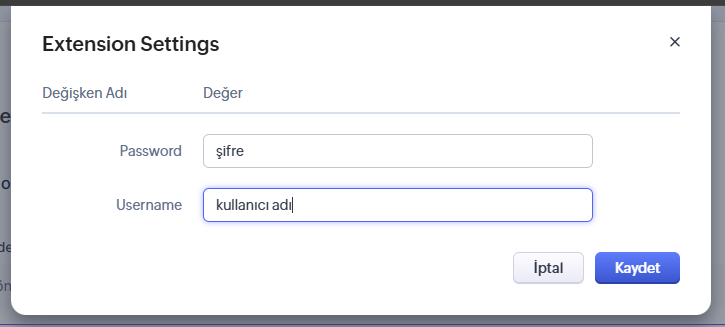
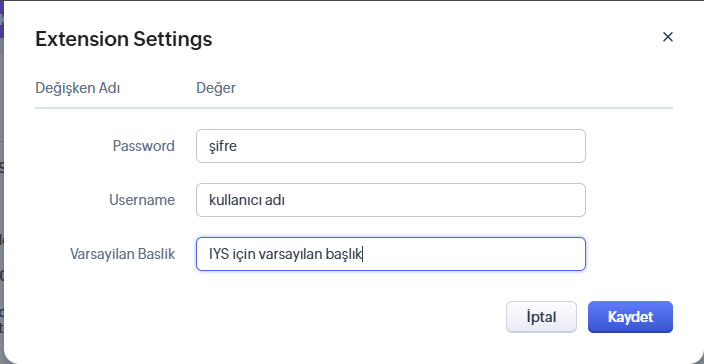
Zoho crm 13. versiyon eklendi.

diff --git a/integrations/zoho-crm-sms/README.md b/integrations/zoho-crm-sms/README.md
@@ -1,46 +1,56 @@
 # ZOHO CRM – Verimor SMS Entegrasyonu
 
-Bu eklenti ile Zoho CRM üzerinde bulunan kişi ve potansiyel müşterilere Verimor üzerinden tekil veya toplu SMS gönderebilirsiniz. Eklenti Zoho Marketplace'e özel plugin olarak yüklenir.
+Bu eklenti ile Zoho CRM üzerinde bulunan kişi ve potansiyel müşterilere Verimor üzerinden tekil veya toplu SMS gönderebilir bu kişi veya firmaları IYS sisteminize gönderebilirsiniz.. Eklenti Zoho Marketplace'e özel plugin olarak yüklenir.
 
-Modül adresi: ([Verimor SMS For ZOHO CRM](https://crm.zoho.com/market/installPrivatePlugin.do?portalName=verimortelekom&nameSpace=verimorsms&versionIndex=4576373000000167039))
+Modül adresi: ([Verimor SMS For ZOHO CRM](https://crm.zoho.com/market/installPrivatePlugin.do?portalName=verimortelekom&nameSpace=verimorsms&versionIndex=4576373000000179001))
 
 ## ZOHO CRM Nedir?
 
 Zoho CRM, işletmelerin satış, pazarlama ve müşteri destek süreçlerini tek bir platformda yönetmesini sağlayan bulut tabanlı bir CRM uygulamasıdır.
 
 ## Özellikler
-- Tekil veya toplu SMS gönderimi: Zoho'daki kişiler ve potansiyel müşterilere (leads/contacts) SMS gönderebilirsiniz.
+- Tekil veya toplu SMS gönderimi: Zoho'daki kişiler ve potansiyel müşterilere (leads/contacts/account) SMS gönderebilirsiniz.
 - Manuel numara ekleyerek gönderim sağlayabilirsiniz.
+- OIM üzerinden eklediğiniz hazır mesajları seçip gönderebilirsiniz.
 - SMS bakiyenizi görüntüleyebilirsiniz.
 - IYS modülüne sahipseniz ticari gönderim sağlayabilirsiniz.
+- Alıcıları topluca IYS ye yükleyebilirsiniz.
+- Alıcı detay sayfalarında (contact/account) IYS izinlerini sorguluyabilir ve değiştirebilirsiniz.
+- Uzantı durumunu kontrol edebilirsiniz.
 
 ## Kurulum
 1. OIM içerisinde ([SMS Ayarlarım](https://oim.verimor.com.tr/sms_settings/edit)) ekranında
-  - Api erişimini açın.
-  - Api izinli IP ler alanına 135.84.80.0/24 adresini ekleyin.
-  - Buradaki Kullanıcı ad ve API şifresini kopyalayın.
+   - Api erişimini açın.
+   - Api izinli IP ler alanına 135.84.80.0/24 adresini ekleyin.
+   - Buradaki Kullanıcı ad ve API şifresini kopyalayın.
 2. Verilen modül linkini açın ve Zoho Marketplace üzerinden eklentiyi yükleyin:
-   ([Verimor SMS For ZOHO CRM](https://crm.zoho.com/market/installPrivatePlugin.do?portalName=verimortelekom&nameSpace=verimorsms&versionIndex=4576373000000167039))
-2. Yükleme tamamlandıktan sonra Zoho içinde eklenti ayar formu açılacaktır.
-3. Ayar formunda girilmesi gereken bilgiler:
+   ([Verimor SMS For ZOHO CRM](https://crm.zoho.com/market/installPrivatePlugin.do?portalName=verimortelekom&nameSpace=verimorsms&versionIndex=4576373000000179001))
+3. Yükleme tamamlandıktan sonra Zoho içinde eklenti ayar formu açılacaktır.
+4. Ayar formunda girilmesi gereken bilgiler:
    - SMS Ayarlarım dan kopyaladığınız yetkilendirilmiş API kullanıcı ve şifresi girin
-   - ![ayarlar](setting.png "ZOHO CRM Verimor Ayarlar")
-4. Bağlantı başarılı ise bakiye bilginiz ayarlar ekranında görünecektir.Test SMS gönderimi yaparak doğrulama sağlayın.
-![bakiye](balance.png)
+   + <img src="setting.png" width="500" >
+5. Bilgilerinizi girdikten sonra aşağıdaki ayarlar ekranı açılacaktır. Buradan "kontrol et" butonları ile kurulumun başarılı olduğunu veya hataları görebilirsiniz.
+   + <img src="extension-setting.png" width="500" >
 
-Not: Eklenti kurulumunda Zoho tarafında gerekli izinleri vermeniz istenecektir; izinleri onaylayın.
+> Not: Eklenti kurulumunda Zoho tarafında gerekli izinleri vermeniz istenecektir; izinleri onaylayın.
+
 ## Kullanım
-![bach](batch.png)
-- Verimor SMS Gönder (Toplu) butonu: Seçilen birden fazla veriye SMS gönderimini sağlar
-- Verimor SMS Gönder butonu: Detayı incelenen veriye SMS gönderimini sağlar.
+- Verimor SMS (Toplu) butonu: Seçilen birden fazla veriye SMS gönderimini sağlar
+   + <img src="batch.png" width="500" >
+- Verimor SMS butonu: Detayı incelenen veriye SMS gönderimini sağlar.
+   + <img src="sms-send.png" width="500" >
+- Verimor IYS sekmesi, detayına bakılan alıcının IYS izinlerini görebilir ve değiştirebilirsiniz. (Tüm izinler HS_WEB türü ile gönderilecektir.)
+  + <img src="iys-detail.png" width="500" >
+- Verimor IYS butonu seçilen alıcıları toplu bir şekilde IYS gönderebilirsiniz.
+  + <img src="iys-batch.png" width="500" >
 
 ## Örnek İş Akışı
-1. Zoho içinde Lead veya Contact listesine gidin
+1. Zoho içinde Lead Contact veya Account listesine gidin
 2. SMS göndermek istediğiniz verileri seçin
-3. Verimor SMS Gönder butonlarından birini seçin ve SMS gönderimi ekranını açın.
+3. Verimor SMS butonlarından birini seçin ve SMS gönderimi ekranını açın.
 4. Gönderici başlığı seçin. Ticari gönderim için IYS başlığınız ile ilişkili başlığı seçmelisiniz
 5. Gönderim Tipini seçin
 6. SMS içeriğini girin ve gönderin.
 
 ## Destek
-Kurulum veya gönderim sırasında sorun yaşarsanız lütfen Verimor destek ekibi ile iletişime geçin veya GitHub deposundaki dökümantasyona bakın.
+Kurulum veya gönderim sırasında sorun yaşarsanız lütfen Verimor destek ekibi ile iletişime geçin.
